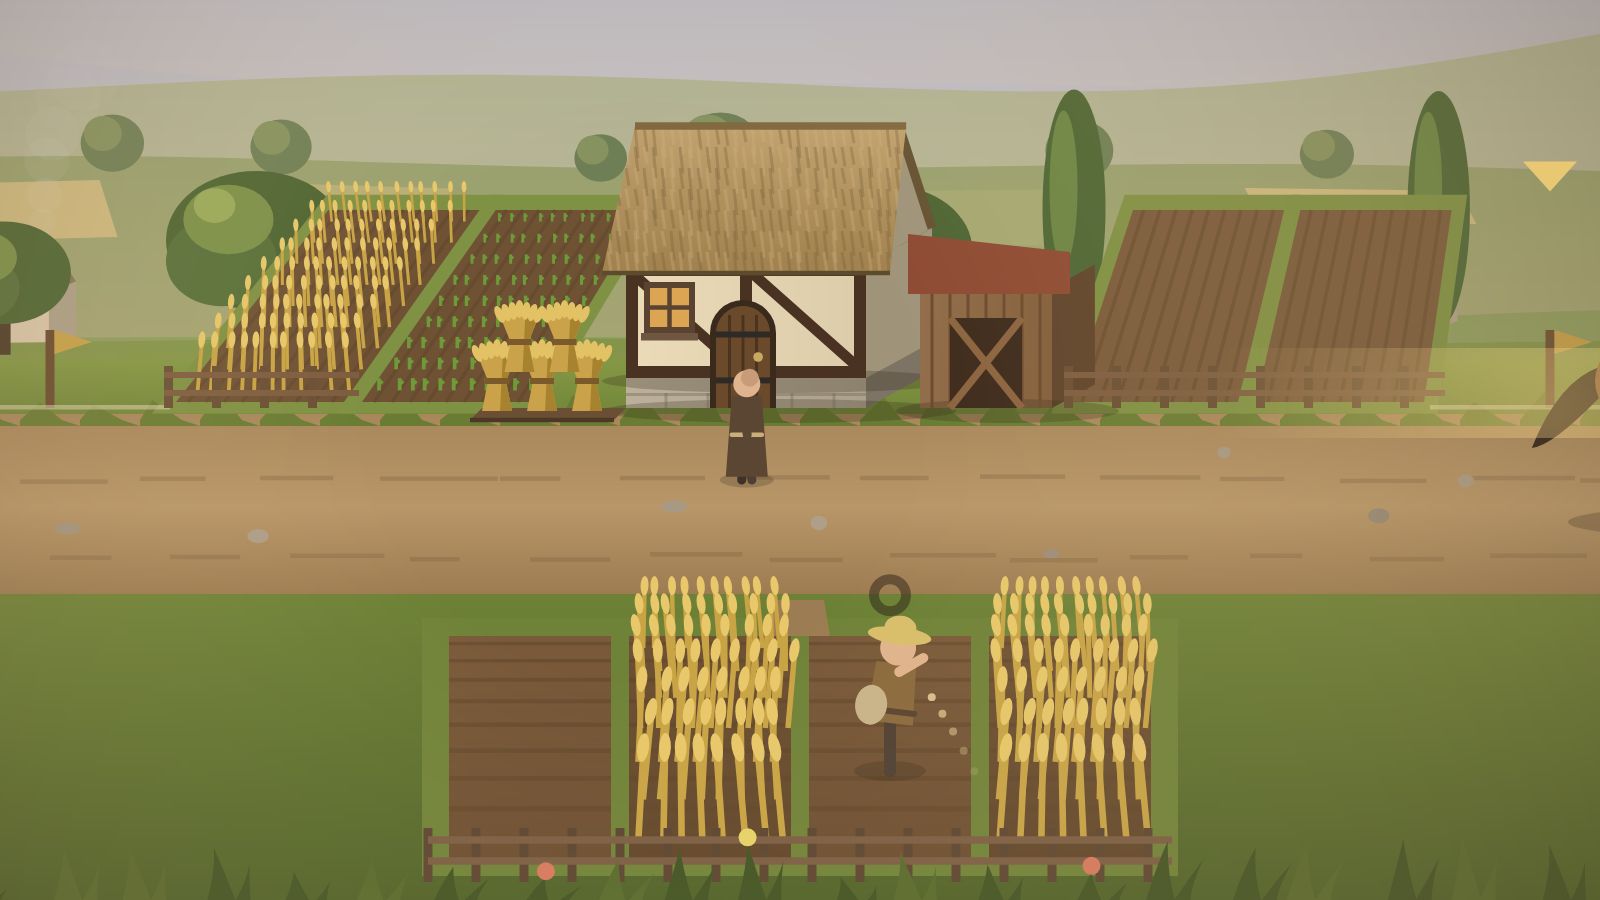
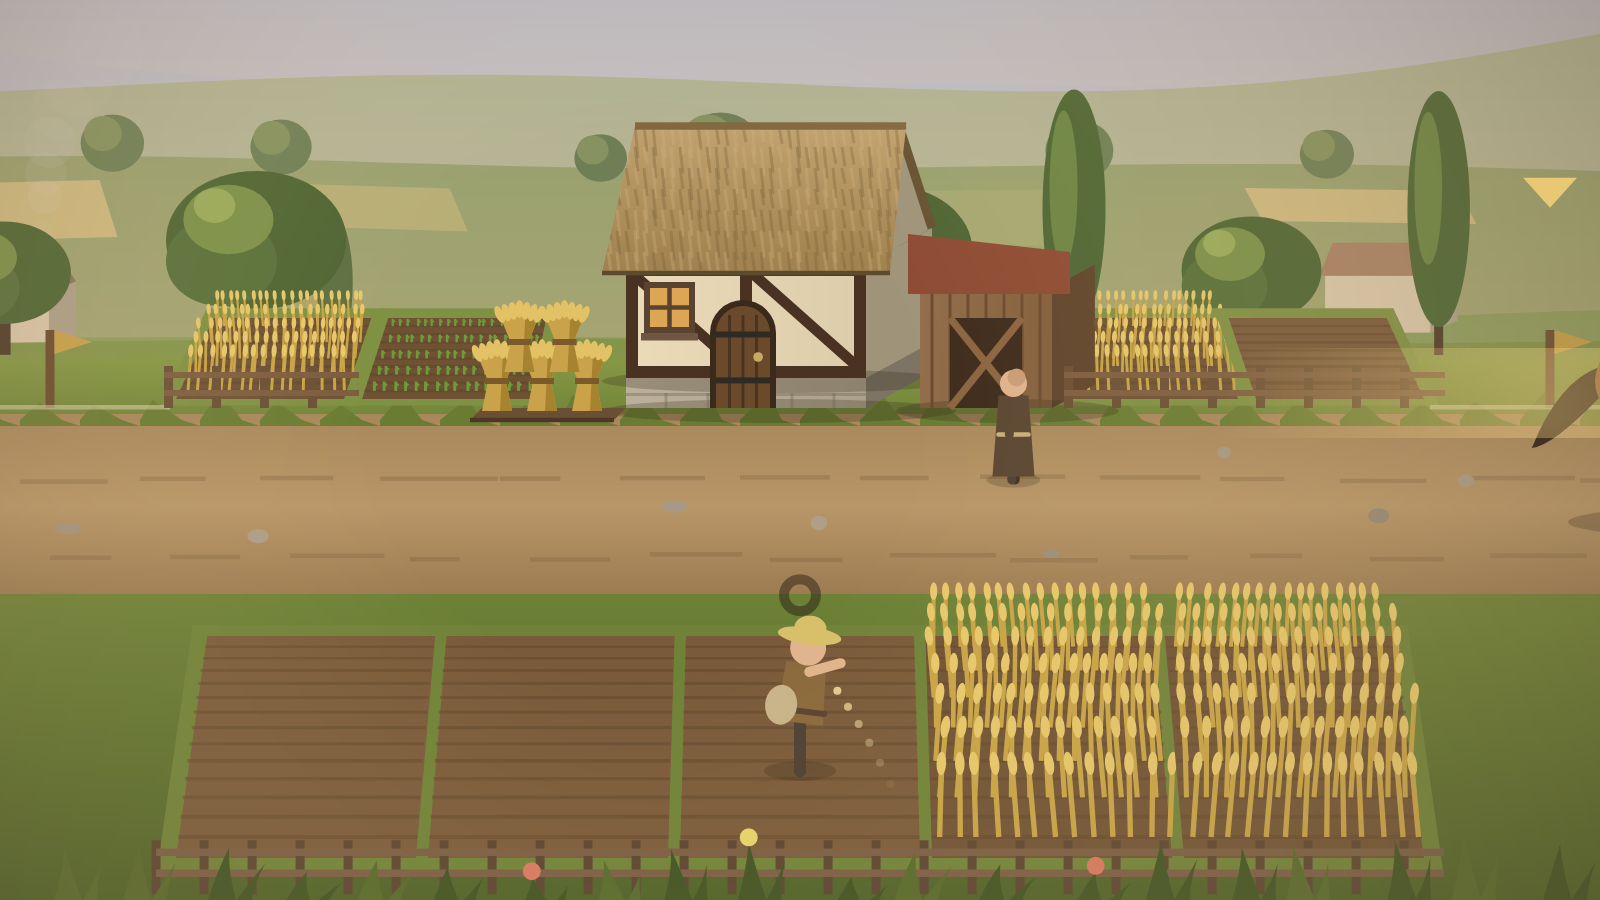
Flatter field perspective; front field spans the full farm width
- Back field is a shallow strip with horizontal rows and a slight taper,
  instead of a steep skewed slab
- Front field matches the back field's width with 5 wider plots (nearer
  to the viewer, so fewer fit across)

diff --git a/src/render/farm.ts b/src/render/farm.ts
@@ -19,8 +19,6 @@ import {
 import { BASE_Y, VIEW_H } from '../game/layout';
 import { circle, clamp01, type Ctx, ellipse, hash, lerp, line, mix, poly } from './util';
 
-/** Back-field rows lean right as they recede (matches the oblique buildings). */
-const SKEW = 30;
 const SOIL = '#7a5a3a';
 const SOIL_DARK = '#5e4329';
 
@@ -52,97 +50,87 @@ function stalk(ctx: Ctx, x: number, y: number, h: number, g: number, sway: numbe
   else if (g >= 0.2) line(ctx, x, y - h * 0.5, x + sway * 0.5 + h * 0.3, y - h * 0.75, color, lw * 0.8); // leaf
 }
 
-// --- Back field (behind the farmstead) --------------------------------------------
+// --- Perspective ------------------------------------------------------------
+// A gentle one-point perspective: rows are horizontal, far edges are only a
+// little narrower than near ones, and depth is compressed on screen.
 
+/** Back field point: u = x offset from the farm centre, t = 0 near edge … 1 far edge. */
 function backPoint(a: Anchor, u: number, t: number): [number, number] {
-  const front = toScreenY(a, BACK_FIELD.front);
-  const back = toScreenY(a, BACK_FIELD.back);
-  return [a.x + u * (1 - 0.1 * t) + SKEW * t, lerp(front, back, t)];
+  const near = toScreenY(a, BACK_FIELD.front);
+  const far = toScreenY(a, BACK_FIELD.back);
+  return [a.x + u * (1 - 0.06 * t), lerp(near, far, t)];
 }
 
-function backPlot(ctx: Ctx, a: Anchor, p: FieldPlot, seed: number): void {
+/** Front field point: t = 0 far (road side) … 1 near (viewer side). */
+function frontPoint(a: Anchor, u: number, t: number): [number, number] {
+  const far = toScreenY(a, FRONT_FIELD.top);
+  const near = toScreenY(a, FRONT_FIELD.bottom);
+  // rows spread out as they come closer
+  return [a.x + u * (0.95 + 0.05 * t), lerp(far, near, t * t * 0.35 + t * 0.65)];
+}
+
+type PointFn = (a: Anchor, u: number, t: number) => [number, number];
+
+function quad(a: Anchor, pt: PointFn, u0: number, u1: number, t0: number, t1: number): number[] {
+  return [...pt(a, u0, t0), ...pt(a, u1, t0), ...pt(a, u1, t1), ...pt(a, u0, t1)];
+}
+
+/**
+ * One plot: soil, horizontal furrows, and crop rows drawn far-to-near.
+ * `farT`/`nearT` give the t of the far and near edge for the point function.
+ */
+function fieldPlot(ctx: Ctx, a: Anchor, p: FieldPlot, seed: number, pt: PointFn, farT: number, nearT: number, size: number, rows: number): void {
   const u0 = p.dx - p.width / 2 + 2;
   const u1 = p.dx + p.width / 2 - 2;
-  // grass border, then the tilled soil
-  const m = 5;
-  poly(ctx, [...backPoint(a, u0 - m, -0.06), ...backPoint(a, u1 + m, -0.06), ...backPoint(a, u1 + m, 1.08), ...backPoint(a, u0 - m, 1.08)], '#7f9143');
-  const pts = [...backPoint(a, u0, 0), ...backPoint(a, u1, 0), ...backPoint(a, u1, 1), ...backPoint(a, u0, 1)];
-  poly(ctx, pts, p.state === 'fallow' ? SOIL : '#6f5234');
-  // furrows run away from the viewer
+  poly(ctx, quad(a, pt, u0, u1, farT, nearT), p.state === 'fallow' ? SOIL : '#6f5234');
   ctx.globalAlpha = 0.45;
-  for (let u = u0 + 4; u < u1; u += 6) {
-    const [x1, y1] = backPoint(a, u, 0);
-    const [x2, y2] = backPoint(a, u, 1);
-    line(ctx, x1, y1, x2, y2, SOIL_DARK, 1.2);
+  for (let k = 1; k < rows * 2; k++) {
+    const t = lerp(farT, nearT, k / (rows * 2));
+    const [x0, y] = pt(a, u0, t);
+    const [x1] = pt(a, u1, t);
+    line(ctx, x0, y, x1, y, SOIL_DARK, 0.8 + size * 0.4 * (k / (rows * 2)));
   }
   ctx.globalAlpha = 1;
   if (p.state === 'fallow') return;
   const g = growth(p);
   const look = cropLook(g);
-  // rows from the back forward so nearer plants overlap farther ones
-  for (let r = 8; r >= 0; r--) {
-    const t = 0.06 + r * 0.11;
-    const persp = 1 - 0.35 * t;
-    for (let u = u0 + 3; u < u1 - 1; u += 5) {
-      const [x, y] = backPoint(a, u + hash(seed + r, u) * 2, t);
-      const sway = g > 0.5 ? Math.sin(a.time * 1.8 + x * 0.05) * 1.4 * g : 0;
-      stalk(ctx, x, y, look.h * persp, g, sway, look.color, look.tip, 1.3 * persp);
+  for (let r = 0; r < rows; r++) {
+    const k = (r + 0.5) / rows; // 0 far … 1 near
+    const t = lerp(farT, nearT, k);
+    const persp = size * (0.72 + 0.28 * k);
+    const step = 4.5 * persp;
+    for (let u = u0 + 2; u < u1 - 1; u += step) {
+      const [x, y] = pt(a, u + hash(seed + r * 31, Math.floor(u * 3)) * 1.5, t);
+      const sway = g > 0.5 ? Math.sin(a.time * 1.8 + x * 0.05 + r) * 1.5 * g * persp : 0;
+      stalk(ctx, x, y, look.h * persp, g, sway, look.color, look.tip, 1.25 * persp);
     }
   }
 }
+
+// --- Back field (behind the farmstead) ----------------------------------------
 
 export function drawBackField(ctx: Ctx, a: Anchor, farm: FarmState | undefined, seed: number): void {
-  for (const p of plotsOf(farm, 'back')) backPlot(ctx, a, p, seed);
-}
-
-// --- Front field (between the road and the viewer) -------------------------------------
-
-function frontPlot(ctx: Ctx, a: Anchor, p: FieldPlot, seed: number): void {
-  const top = toScreenY(a, FRONT_FIELD.top);
-  const bottom = toScreenY(a, FRONT_FIELD.bottom);
-  const x0 = a.x + p.dx - p.width / 2 + 2;
-  const x1 = a.x + p.dx + p.width / 2 - 2;
-  const g0 = ctx.createLinearGradient(0, top, 0, bottom);
-  g0.addColorStop(0, p.state === 'fallow' ? SOIL : '#6f5234');
-  g0.addColorStop(1, p.state === 'fallow' ? '#6a4c30' : '#5f4429');
-  ctx.fillStyle = g0;
-  ctx.fillRect(x0, top, x1 - x0, bottom - top);
-  // furrows run across, getting further apart as they come closer
-  ctx.globalAlpha = 0.5;
-  for (let k = 0; k < 9; k++) {
-    const t = (k + 0.5) / 9;
-    const y = lerp(top, bottom, t * t * 0.4 + t * 0.6);
-    line(ctx, x0, y, x1, y, SOIL_DARK, 1 + t);
-  }
-  ctx.globalAlpha = 1;
-  if (p.state === 'fallow') return;
-  const g = growth(p);
-  const look = cropLook(g);
-  for (let r = 0; r < 7; r++) {
-    const t = (r + 0.6) / 7;
-    const y = lerp(top, bottom, t * t * 0.4 + t * 0.6);
-    const persp = 1 + 0.6 * t; // closer to the viewer: bigger
-    const step = 5 + 2 * t;
-    for (let x = x0 + 3; x < x1 - 1; x += step) {
-      const px = x + hash(seed + r * 31, Math.floor(x)) * 2;
-      const sway = g > 0.5 ? Math.sin(a.time * 1.8 + px * 0.05 + r) * 1.8 * g * persp : 0;
-      stalk(ctx, px, y, look.h * persp * 1.15, g, sway, look.color, look.tip, 1.4 * persp);
-    }
+  for (const p of plotsOf(farm, 'back')) {
+    const u0 = p.dx - p.width / 2 - 2;
+    const u1 = p.dx + p.width / 2 + 2;
+    poly(ctx, quad(a, backPoint, u0, u1, 1.12, -0.08), '#7f9143'); // grass border
+    fieldPlot(ctx, a, p, seed, backPoint, 1, 0, 0.8, 5);
   }
 }
+
+// --- Front field (between the road and the viewer) -----------------------------------
 
 export function drawFrontField(ctx: Ctx, a: Anchor, farm: FarmState | undefined, seed: number): void {
-  const top = toScreenY(a, FRONT_FIELD.top);
-  const bottom = toScreenY(a, FRONT_FIELD.bottom);
-  // grass margin and a trodden path from the road into the field
-  ctx.fillStyle = '#6f8338';
-  ctx.fillRect(a.x - 126, top - 6, 252, bottom - top + 12);
-  poly(ctx, [a.x - 8, toScreenY(a, 500), a.x + 8, toScreenY(a, 500), a.x + 10, top, a.x - 10, top], '#9c7c52');
-  for (const p of plotsOf(farm, 'front')) frontPlot(ctx, a, p, seed + 7);
+  const plots = plotsOf(farm, 'front');
+  const ext = Math.max(...plots.map((p) => Math.abs(p.dx) + p.width / 2)) + 4;
+  poly(ctx, quad(a, frontPoint, -ext, ext, -0.08, 1.06), '#6f8338'); // grass border
+  for (const p of plots) fieldPlot(ctx, a, p, seed + 7, frontPoint, 0, 1, 1.45, 7);
   // low wattle fence along the near edge
-  for (let x = a.x - 124; x <= a.x + 124; x += 16) line(ctx, x, bottom + 8, x, bottom - 10, '#5a4330', 3);
-  line(ctx, a.x - 124, bottom - 6, a.x + 124, bottom - 6, '#7a5d43', 2.5);
-  line(ctx, a.x - 124, bottom + 1, a.x + 124, bottom + 1, '#7a5d43', 2.5);
+  const [fl, fy] = frontPoint(a, -ext, 1.06);
+  const [fr] = frontPoint(a, ext, 1.06);
+  for (let x = fl; x <= fr; x += 16) line(ctx, x, fy + 6, x, fy - 12, '#5a4330', 3);
+  line(ctx, fl, fy - 8, fr, fy - 8, '#7a5d43', 2.5);
+  line(ctx, fl, fy - 1, fr, fy - 1, '#7a5d43', 2.5);
 }
 
 /** Plots of one zone; with no farm state (e.g. under construction) all fallow. */

diff --git a/src/game/farm.ts b/src/game/farm.ts
@@ -54,11 +54,13 @@ export const FARMER_SPEED = 42; // px/s
 
 // Geometry (world units). The back field lies behind the farmstead; the front
 // field lies between the road and the viewer.
-export const BACK_FIELD = { front: BASE_Y - 2, back: BASE_Y - 66 };
+// Seen from a low angle, the back field is a shallow strip; the front field is
+// closer to the viewer, so it takes up more of the screen.
+export const BACK_FIELD = { front: BASE_Y - 3, back: BASE_Y - 30 };
 export const FRONT_FIELD = { top: 512, bottom: VIEW_H - 14 };
 /** Where the farmer stands in each zone while working a plot. */
 export const WORK_Y: Record<FieldZone, number> = {
-  back: BASE_Y - 30,
+  back: BASE_Y - 15,
   front: (FRONT_FIELD.top + FRONT_FIELD.bottom) / 2 + 8,
 };
 /** The farmyard: the farmer's home spot, by the door. */
@@ -68,8 +70,12 @@ export const STORE = { dx: -86, y: BASE_Y + 3 };
 
 /** Back plots flank the farmstead so the farmer stays in view while working them. */
 export const BACK_DX = [-180, -118, 118, 180];
-export const FRONT_DX = [-90, -30, 30, 90];
-export const PLOT_W: Record<FieldZone, number> = { back: 60, front: 58 };
+/**
+ * The front field spans the same width as the back one. Being closer to the
+ * viewer, its plots look bigger, so fewer of them fit across.
+ */
+export const FRONT_DX = [-168, -84, 0, 84, 168];
+export const PLOT_W: Record<FieldZone, number> = { back: 60, front: 84 };
 
 export function createFarm(opts: { established?: boolean } = {}): FarmState {
   const plots: FieldPlot[] = [

diff --git a/ARCHITECTURE.md b/ARCHITECTURE.md
@@ -11,7 +11,8 @@ horse, people and the landscape are drawn procedurally in code.
   villagers, build menu, construction progress and stages, and the construction toggle.
   It doesn't use the DOM, and `world.test.ts` covers it.
 - `src/game/farm.ts`: farm simulation (pure, covered by `farm.test.ts`). A finished farm has
-  4 plots behind the farmstead (either side of the house) and 4 in front of the road, a farmer
+  4 plots behind the farmstead (either side of the house) and 5 wider ones in front of the road
+  (same total width; nearer, so they look bigger), a farmer
   and a grain store holding 0–5 sheaves. Each plot keeps its own state (fallow → growing → ripe)
   and age. The farmer works one plot at a time. To sow, he walks out, sows (2.5 s), then walks
   back to the farm, and the plot grows on its own clock (30 s to ripe). When a plot is ripe and
